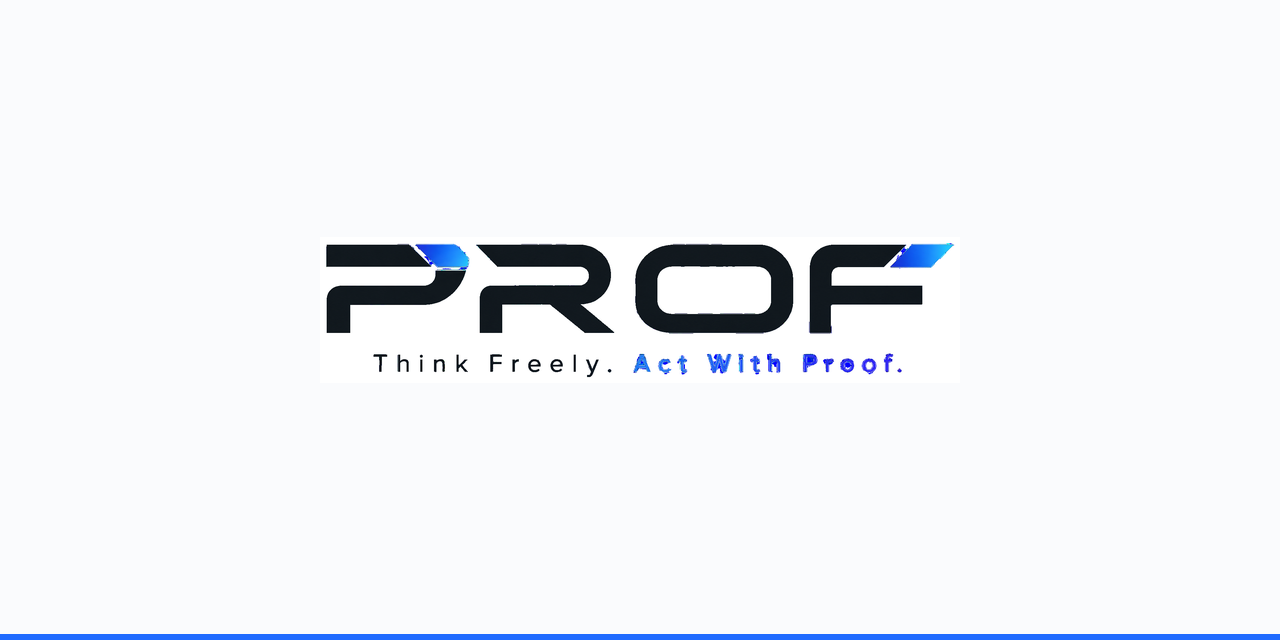
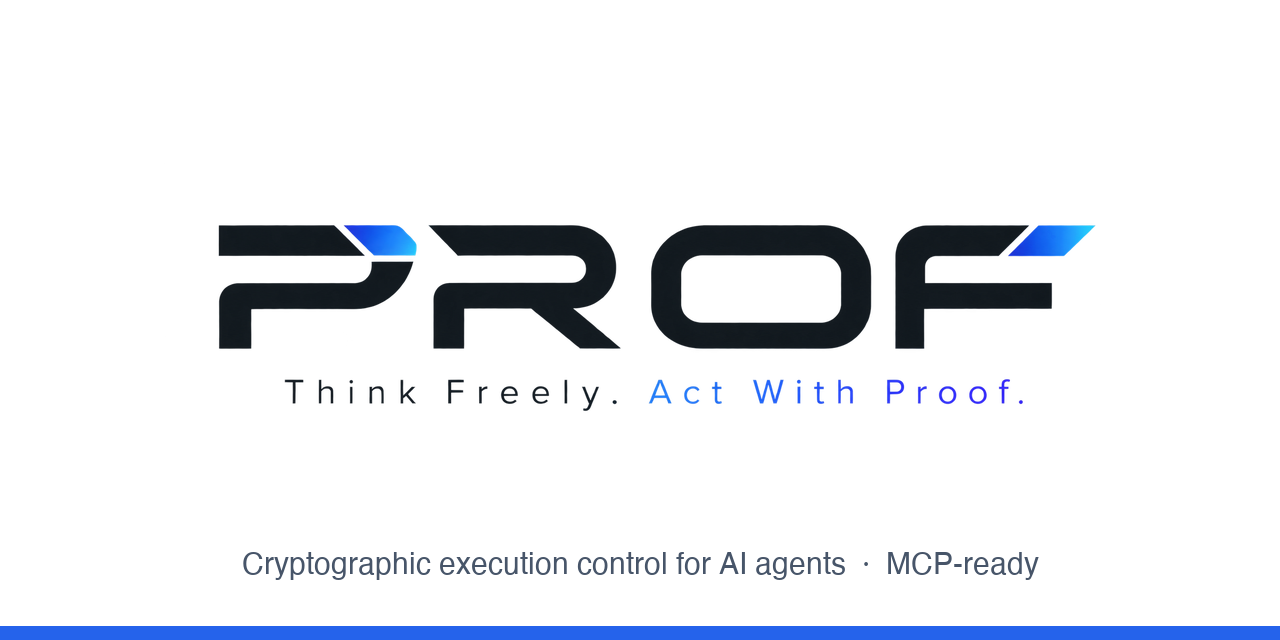
Launch polish: new OG image, tokenismcp repo URLs, CI matrix + ruff, dependabot

diff --git a/prof/console/index.html b/prof/console/index.html
@@ -211,7 +211,7 @@
 <footer class="statusbar">
   <span id="sb-head" class="mono">ledger head …</span><span class="sp"></span>
   <span class="mut"><span data-i18n="foot.keys.pre">keys</span> <b>1–5</b> <span data-i18n="foot.keys">switch views · <b>/</b> ledger search</span></span>
-  <span>·</span><a href="/docs">API docs</a><span>·</span><a href="https://github.com/4chains-inc/prof">GitHub</a>
+  <span>·</span><a href="/docs">API docs</a><span>·</span><a href="https://github.com/tokenismcp/prof">GitHub</a>
 </footer>
 
 <div class="drawer" id="drawer"><div class="dhead"><h3><span data-i18n="drawer.title">Ledger entry</span> <span id="d-seq"></span></h3><button id="d-close">✕</button></div><pre class="out big" id="d-body"></pre>

diff --git a/papers/PROF-whitepaper-v1.0.md b/papers/PROF-whitepaper-v1.0.md
@@ -2,7 +2,7 @@
 ## Cryptographic execution control for AI agents
 
 **4Chains Inc. · Technical Whitepaper v1.0 · October 2026**
-Companion to the open-source implementation: `https://github.com/4chains-inc/prof`
+Companion to the open-source implementation: `https://github.com/tokenismcp/prof`
 
 > This paper describes exactly what the accompanying code does. Every
 > security claim maps to an enforced check (§4) with a test (§6); every
